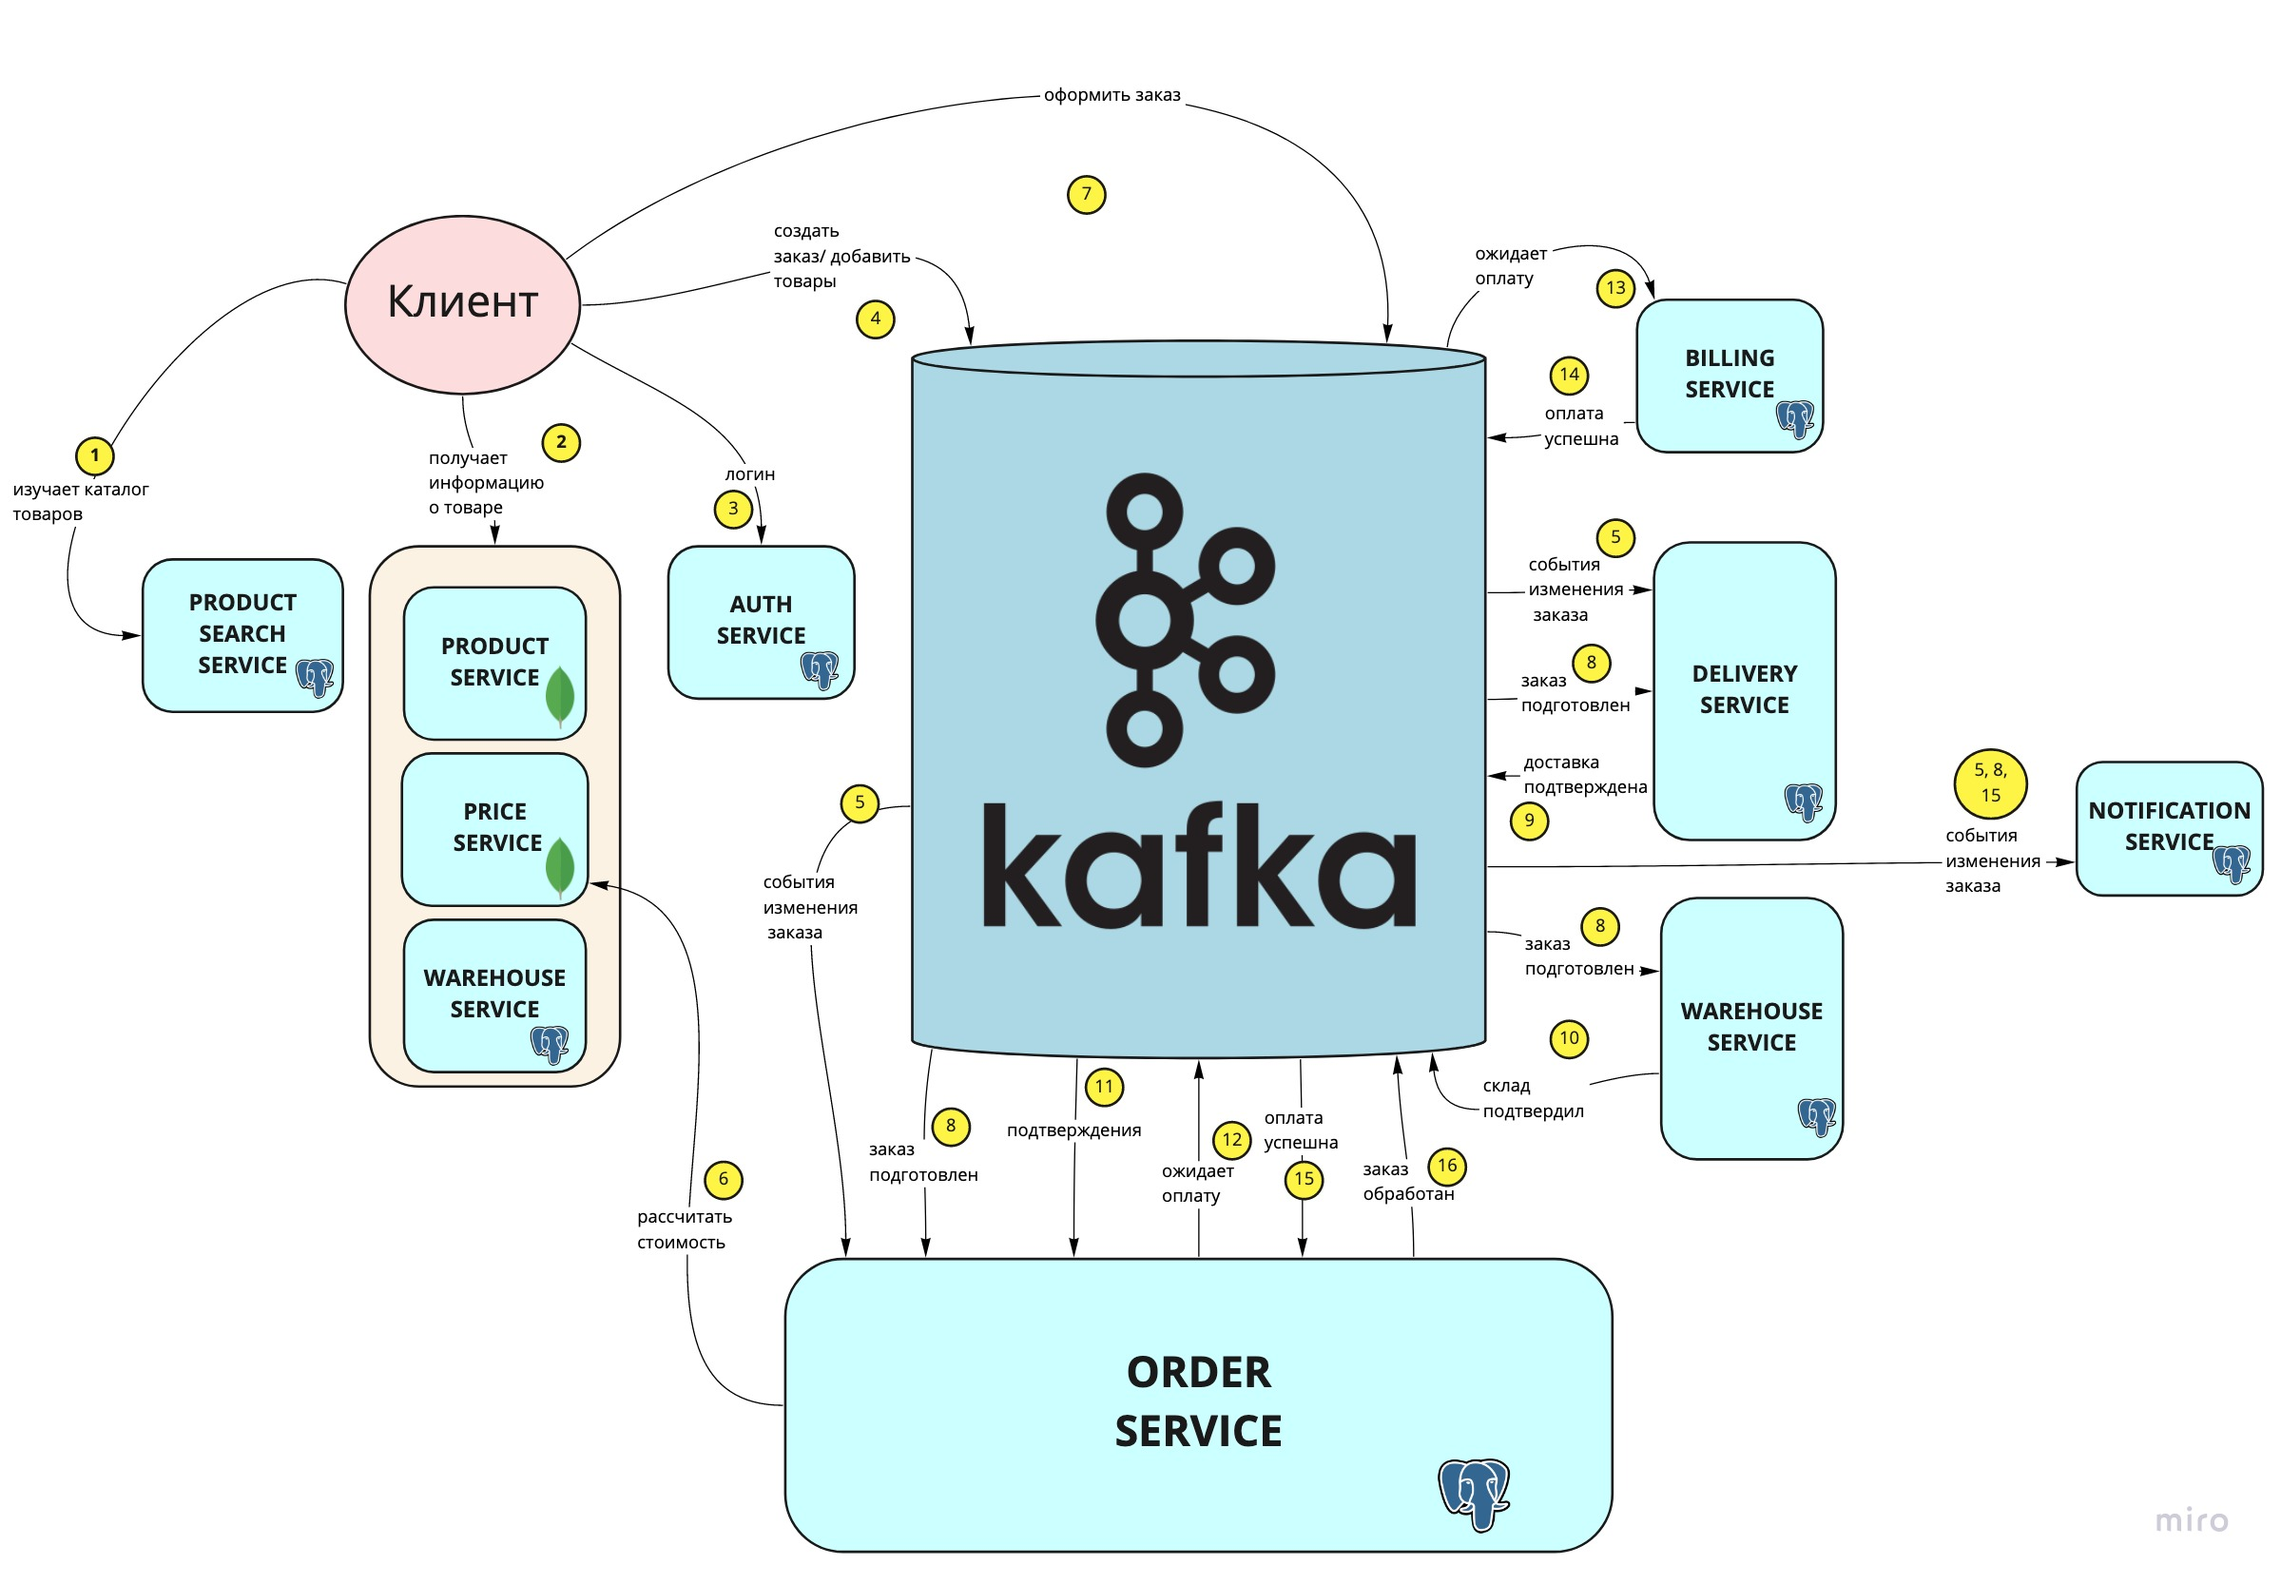
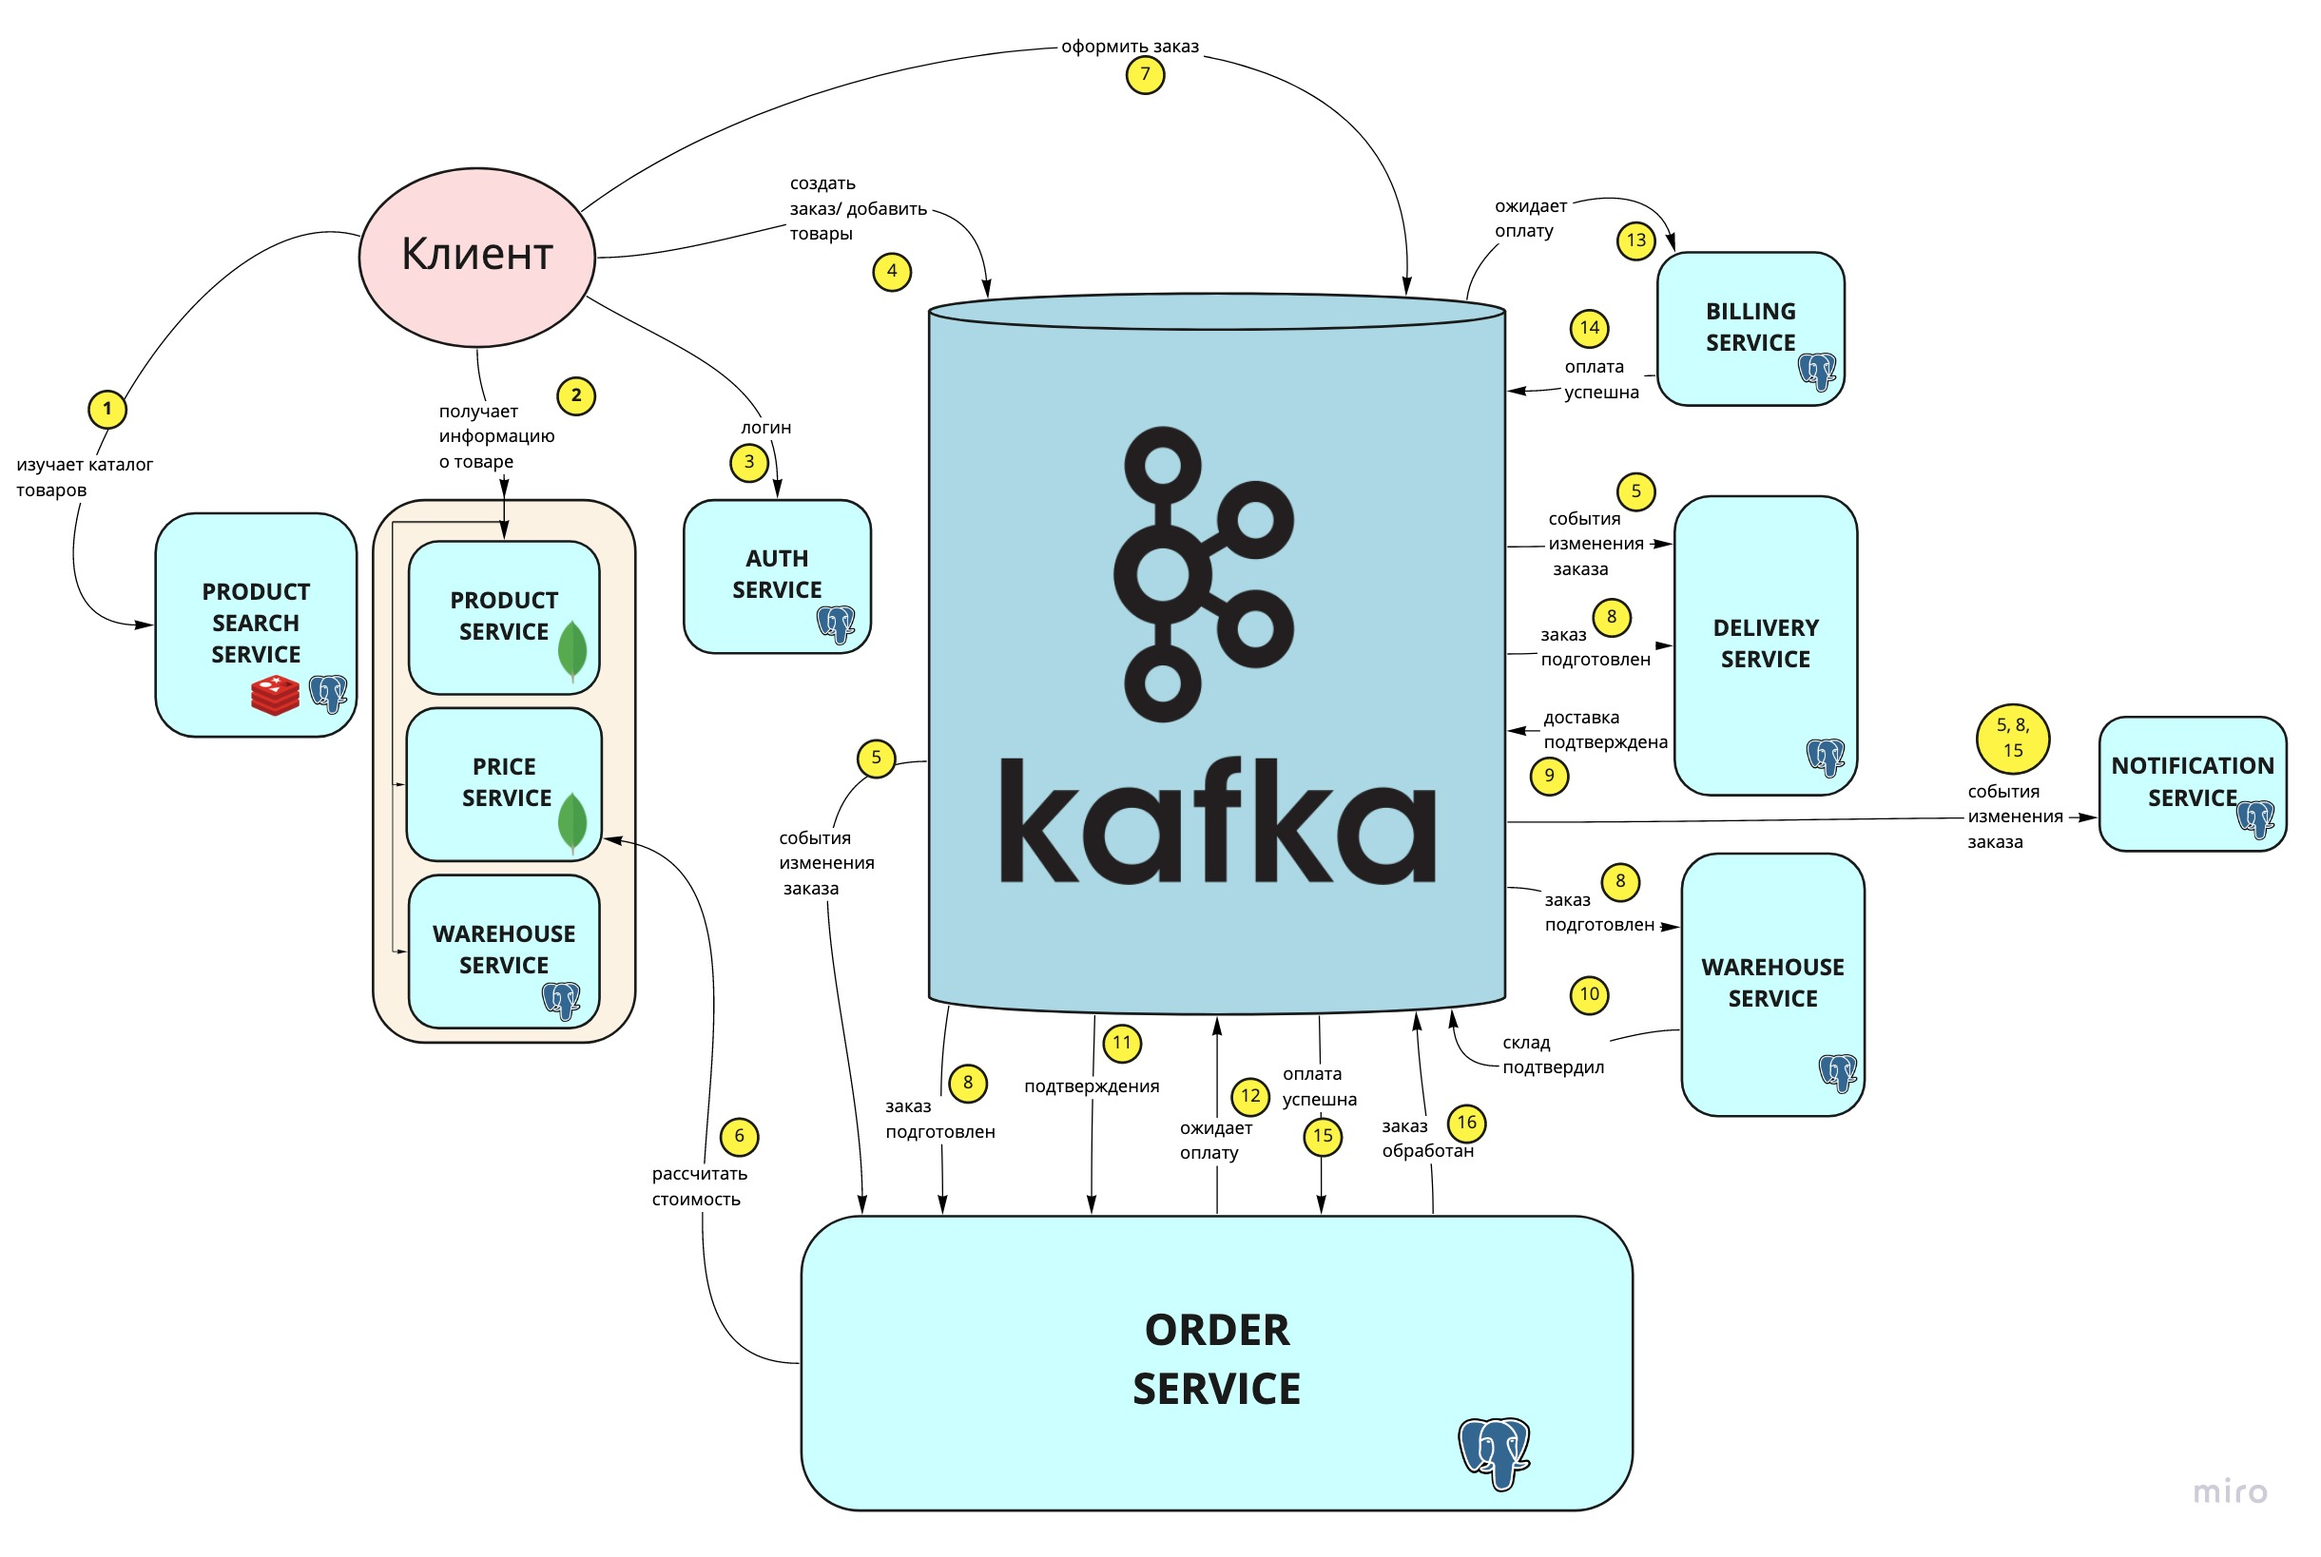
Добавил Redis для кэширования результатов поиска товаров

diff --git a/src/product-search-service/core/application.go b/src/product-search-service/core/application.go
@@ -1,22 +1,28 @@
 package core
 
 import (
+	"context"
 	"database/sql"
+	"encoding/json"
 	"fmt"
 	"github.com/antlapit/otus-architect/api/event"
 	"github.com/antlapit/otus-architect/toolbox"
+	"github.com/go-redis/redis/v8"
 	"github.com/prometheus/common/log"
 	"math/big"
+	"time"
 )
 
 type ProductSearchApplication struct {
 	productSearchRepository *ProductSearchRepository
+	redis                   *redis.Client
 }
 
-func NewProductSearchApplication(db *sql.DB) *ProductSearchApplication {
+func NewProductSearchApplication(db *sql.DB, redis *redis.Client) *ProductSearchApplication {
 	var productSearchRepository = &ProductSearchRepository{DB: db}
 	return &ProductSearchApplication{
 		productSearchRepository: productSearchRepository,
+		redis:                   redis,
 	}
 }
 func (app *ProductSearchApplication) ProcessEvent(id string, eventType string, data interface{}) error {
@@ -57,6 +63,12 @@ func (app *ProductSearchApplication) archiveProduct(data event.ProductArchived) 
 }
 
 func (app *ProductSearchApplication) GetAllProducts(filters *ProductFilters) (ProductPage, error) {
+	cached, err := app.checkCache(filters)
+	if err == nil {
+		fmt.Println("Get products from cache")
+		return cached, nil
+	}
+
 	count, err := app.productSearchRepository.CountByFilter(filters)
 	if err != nil {
 		return ProductPage{}, err
@@ -77,10 +89,46 @@ func (app *ProductSearchApplication) GetAllProducts(filters *ProductFilters) (Pr
 			Unpaged: true,
 		}
 	}
-	return ProductPage{
+	res := ProductPage{
 		Items: items,
 		Page:  &page,
-	}, nil
+	}
+	err = app.updateCache(filters, res)
+	if err != nil {
+		fmt.Println("Cache saving error")
+	}
+	return res, nil
+}
+
+func (app *ProductSearchApplication) checkCache(filters *ProductFilters) (ProductPage, error) {
+	ctx := context.Background()
+	key, err := app.calcKey(filters)
+	if err != nil {
+		return ProductPage{}, err
+	}
+	val, err := app.redis.Get(ctx, key).Result()
+	if err == nil {
+		var page ProductPage
+		err := json.Unmarshal([]byte(val), &page)
+		return page, err
+	} else {
+		return ProductPage{}, err
+	}
+}
+
+func (app *ProductSearchApplication) updateCache(filters *ProductFilters, page ProductPage) error {
+	ctx := context.Background()
+	key, err := app.calcKey(filters)
+	if err != nil {
+		return err
+	}
+	val, err := json.Marshal(page)
+	if err == nil {
+		d, _ := time.ParseDuration("5m")
+		return app.redis.Set(ctx, key, string(val), d).Err()
+	} else {
+		return err
+	}
 }
 
 func (app *ProductSearchApplication) modifyPrices(data event.ProductPriceChanged) error {
@@ -106,6 +154,11 @@ func (app *ProductSearchApplication) modifyQuantities(data event.ProductsBatchQu
 		}
 	}
 	return nil
+}
+
+func (app *ProductSearchApplication) calcKey(filters *ProductFilters) (string, error) {
+	b, err := json.Marshal(filters)
+	return string(b), err
 }
 
 type ProductFilters struct {

diff --git a/src/product-search-service/main.go b/src/product-search-service/main.go
@@ -1,10 +1,12 @@
 package main
 
 import (
+	"fmt"
 	"github.com/antlapit/otus-architect/api/event"
 	"github.com/antlapit/otus-architect/product-search-service/core"
 	. "github.com/antlapit/otus-architect/toolbox"
 	"github.com/gin-gonic/gin"
+	"github.com/go-redis/redis/v8"
 	_ "github.com/lib/pq"
 	"net/http"
 	"os"
@@ -23,11 +25,25 @@ func main() {
 
 		eventsMarshaller := NewEventMarshaller(event.AllEvents)
 
-		var app = core.NewProductSearchApplication(db)
+		var redis = NewDefaultRedis()
+		var app = core.NewProductSearchApplication(db, redis)
 		initListeners(kafka, eventsMarshaller, app)
 		initApi(publicGroup, app)
 		engine.Run(":8007")
 	}
+}
+
+func NewDefaultRedis() *redis.Client {
+	host := os.Getenv("REDIS_HOST")
+	port := os.Getenv("REDIS_PORT")
+	password := os.Getenv("REDIS_PASSWORD")
+	addr := fmt.Sprintf("%s:%s", host, port)
+	rdb := redis.NewClient(&redis.Options{
+		Addr:     addr,
+		Password: password,
+		DB:       0, // use default DB
+	})
+	return rdb
 }
 
 func initListeners(kafka *KafkaServer, marshaller *EventMarshaller, app *core.ProductSearchApplication) {
